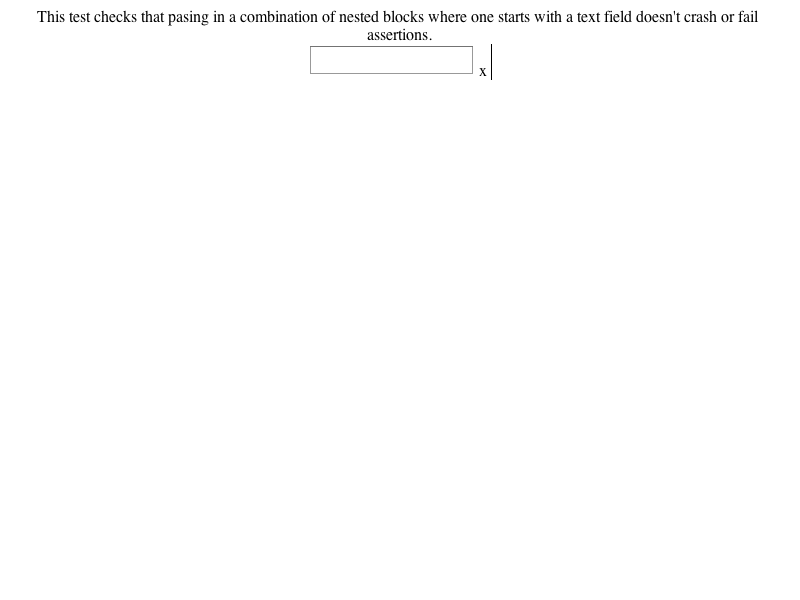
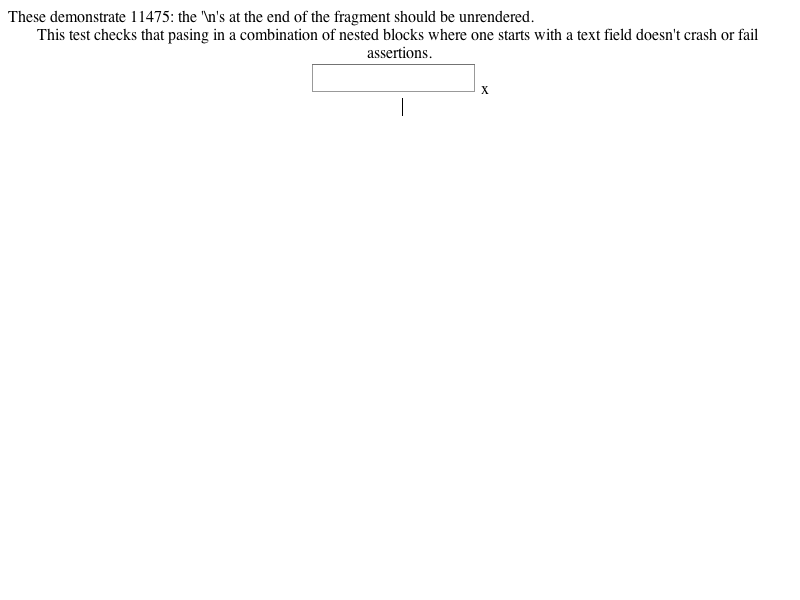
LayoutTests:
Reviewed by harrison

        Updated these tests to mention the bug that they demonstrate:
        * editing/pasteboard/nested-blocks-with-text-area-expected.checksum:
        * editing/pasteboard/nested-blocks-with-text-area-expected.png:
        * editing/pasteboard/nested-blocks-with-text-area-expected.txt:
        * editing/pasteboard/nested-blocks-with-text-area.html:
        * editing/pasteboard/nested-blocks-with-text-field-expected.checksum:
        * editing/pasteboard/nested-blocks-with-text-field-expected.png:
        * editing/pasteboard/nested-blocks-with-text-field-expected.txt:
        * editing/pasteboard/nested-blocks-with-text-field.html:

WebCore:

        Reviewed by harrison
        
        <rdar://problem/4711063>
        Pasting 10K lines into Mail/Blot takes ~7sec, in TextEdit it takes ~1.5sec

        * editing/ReplaceSelectionCommand.cpp:
        (WebCore::ReplacementFragment::ReplacementFragment): Don't do the test
        insertion and plain text string creation unless we need the string
        for a BeforeTextInserted event handler or for a plain text only region.
        (WebCore::ReplacementFragment::removeInterchangeNodes): Added, moved
        code here from ReplacementFragment's constructor.
        (WebCore::ReplaceSelectionCommand::completeHTMLReplacement): Added a
        FIXME.
        * editing/ReplaceSelectionCommand.h:

git-svn-id: http://svn.webkit.org/repository/webkit/trunk/LayoutTests@17503 268f45cc-cd09-0410-ab3c-d52691b4dbfc

Changed region(s): [[0.0, 0.0, 0.9688, 0.12]]

diff --git a/editing/pasteboard/nested-blocks-with-text-area.html b/editing/pasteboard/nested-blocks-with-text-area.html
@@ -6,13 +6,15 @@ div { text-align: center; }
 </head>
 
 <body contentEditable="true">
-
+These demonstrate 11475: the '\n's at the end of the fragment should be unrendered.<br><br>
 
 <script>
 var s = window.getSelection();
 var e = document.body;
 
 s.setPosition(e, 0);
+document.execCommand("SelectAll");
+s.modify("move", "forward", "character");
 document.execCommand("InsertHTML", false, "<div>This test checks that pasing in a combination of nested blocks where one starts with a text field doesn't crash or fail assertions.</div>\n<div>\n<div>\n<textarea> </textarea> \n<span>x</span>\n</div>\n</div>");
 
 </script>

diff --git a/editing/pasteboard/nested-blocks-with-text-field.html b/editing/pasteboard/nested-blocks-with-text-field.html
@@ -6,13 +6,15 @@ div { text-align: center; }
 </head>
 
 <body contentEditable="true">
-
+These demonstrate 11475: the '\n's at the end of the fragment should be unrendered.<br><br>
 
 <script>
 var s = window.getSelection();
 var e = document.body;
 
 s.setPosition(e, 0);
+document.execCommand("SelectAll");
+s.modify("move", "forward", "character");
 document.execCommand("InsertHTML", false, "<div>This test checks that pasing in a combination of nested blocks where one starts with a text field doesn't crash or fail assertions.</div>\n<div>\n<div>\n<input type='text'> \n<span>x</span>\n</div>\n</div>");
 
 </script>
